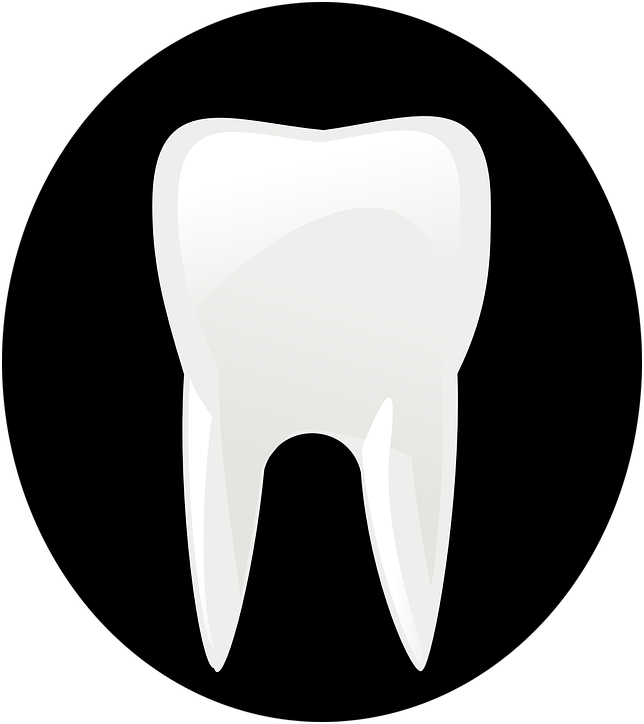
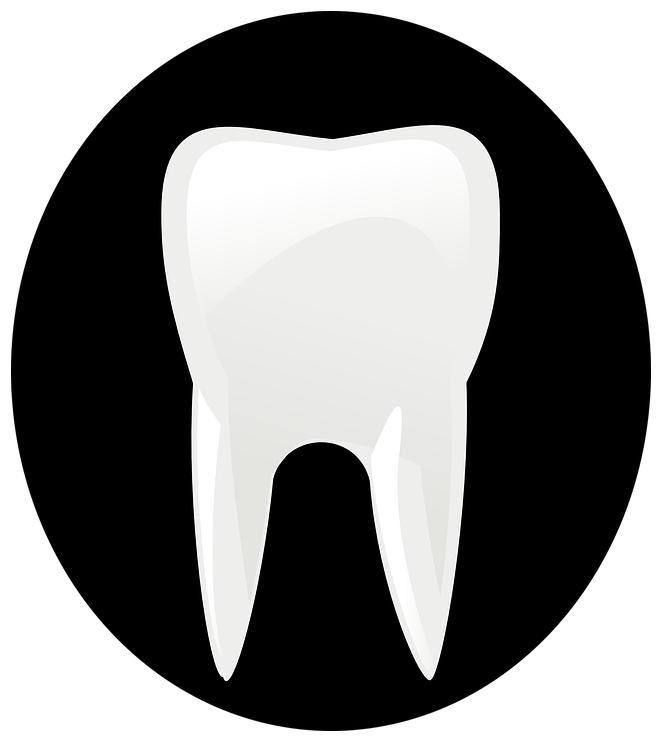
Added empty padding to tooth.png. Refactored saveAsPdf() and associated methods. Added drawLine() and writeDateTime().

diff --git a/src/main/java/seedu/address/storage/InOutAddressBookStorage.java b/src/main/java/seedu/address/storage/InOutAddressBookStorage.java
@@ -4,6 +4,8 @@ import static java.util.Objects.requireNonNull;
 
 import java.io.IOException;
 import java.nio.file.Path;
+import java.time.LocalDateTime;
+import java.time.format.DateTimeFormatter;
 import java.util.ArrayList;
 import java.util.Optional;
 import java.util.logging.Logger;
@@ -30,7 +32,15 @@ import seedu.address.model.ReadOnlyAddressBook;
 public class InOutAddressBookStorage implements AddressBookStorage {
 
     private static final String TITLE = "OurTeeth";
+    private static final PDFont TITLE_FONT = PDType1Font.HELVETICA_BOLD;
+    private static final int TITLE_FONT_SIZE = 20;
     private static final int TOP_MARGIN = 20;
+    private static final PDFont DATE_TIME_FONT = PDType1Font.HELVETICA;
+    private static final int DATE_TIME_FONT_SIZE = 8;
+    private static final PDFont SUBTITLE_FONT = PDType1Font.HELVETICA_BOLD;
+    private static final int SUBTITLE_FONT_SIZE = 16;
+    private static final PDFont FONT = PDType1Font.HELVETICA;
+    private static final int FONT_SIZE = 12;
     private static final int LINE_SPACING = 3;
     private static final String TEETH_IMAGE_PATH = "src\\main\\resources\\images\\tooth.png";
 
@@ -111,17 +121,13 @@ public class InOutAddressBookStorage implements AddressBookStorage {
         FileUtil.createIfMissing(filePath);
 
         try (PDDocument doc = new PDDocument()) {
-            PDFont font = PDType1Font.HELVETICA;
-            int fontSize = 12;
-            PDFont titleFont = PDType1Font.HELVETICA_BOLD;
-            int titleFontSize = 20;
 
             for (PdfAdaptedPerson person : toWrite.getPersons()) {
-                writeModelObject(doc, titleFont, titleFontSize, font, fontSize, person, "Patients");
+                writeModelObject(doc, person, "Patients");
             }
 
             for (PdfAdaptedTask task : toWrite.getTasks()) {
-                writeModelObject(doc, titleFont, titleFontSize, font, fontSize, task, "Tasks");
+                writeModelObject(doc, task, "Tasks");
             }
 
             doc.save(filePath.toFile());
@@ -133,49 +139,33 @@ public class InOutAddressBookStorage implements AddressBookStorage {
     /**
      * Outputs the PDF adapted class object contents to a PDF page.
      * @param doc The PDF document
-     * @param titleFont The font type for the title to be used
-     * @param titleFontSize The font size for the title to be used
-     * @param font The font type to be used
-     * @param fontSize The font size to be used
      * @param pdfAdaptedObj The object to be printed
      * @throws IOException If file cannot be written
      */
-    private void writeModelObject(PDDocument doc, PDFont titleFont, int titleFontSize, PDFont font,
-                                  int fontSize, PdfAdaptedInterface pdfAdaptedObj, String type) throws IOException {
+    private void writeModelObject(PDDocument doc, PdfAdaptedInterface pdfAdaptedObj, String type) throws IOException {
         PDPage page = new PDPage(PDRectangle.A4);
         doc.addPage(page);
         ArrayList<String> stringArr = pdfAdaptedObj.getStrings();
-        float textWidth = font.getStringWidth(TITLE) / 1000 * titleFontSize;
-        float textHeight = font.getFontDescriptor().getFontBoundingBox().getHeight() / 1000 * titleFontSize;
-        float tx;
-        float ty;
+        float ty = TOP_MARGIN;
 
         try (PDPageContentStream contents = new PDPageContentStream(doc, page)) {
-            contents.setFont(titleFont, titleFontSize);
             PDImageXObject pdImage = PDImageXObject.createFromFile(TEETH_IMAGE_PATH, doc);
-            tx = ((page.getMediaBox().getWidth() - textWidth) - (pdImage.getWidth() * textHeight / 1000)) / 2;
-            ty = page.getMediaBox().getHeight() - TOP_MARGIN - textHeight;
-            writeLine(contents, TITLE, tx, ty);
-            contents.drawImage(pdImage, tx + textWidth + (pdImage.getWidth() * textHeight / 1000) - 7, ty - 1,
-                        pdImage.getWidth() * textHeight / 1000,
-                        pdImage.getHeight() * textHeight / 1000);
+            contents.setFont(TITLE_FONT, TITLE_FONT_SIZE);
+            ty = writeTitle(contents, page, pdImage);
 
-            int subtitleFontSize = fontSize + Math.abs((titleFontSize - fontSize) / 2);
-            contents.setFont(titleFont, subtitleFontSize);
-            textWidth = font.getStringWidth(type) / 1000 * subtitleFontSize;
-            textHeight = font.getFontDescriptor().getFontBoundingBox().getHeight() / 1000 * subtitleFontSize;
-            tx = (page.getMediaBox().getWidth() - textWidth) / 2;
-            ty = page.getMediaBox().getHeight() - TOP_MARGIN - textHeight - subtitleFontSize - LINE_SPACING * 4;
-            writeLine(contents, type, tx, ty);
+            contents.setFont(DATE_TIME_FONT, DATE_TIME_FONT_SIZE);
+            writeDateTime(contents, page);
 
-            contents.moveTo(tx, ty - 1);
-            contents.lineTo(tx + textWidth + 4, ty - 1);
-            contents.stroke();
+            contents.setFont(TITLE_FONT, SUBTITLE_FONT_SIZE);
+            ty = writeSubtitle(contents, page, type, ty);
 
-            contents.setFont(font, fontSize);
-            for (int i = 0; i < stringArr.size(); i++) {
-                writeLine(contents, stringArr.get(i), 50, 700 - (i * (fontSize + LINE_SPACING)));
+            ty = drawLine(contents, 10, page.getMediaBox().getWidth() - 10, ty);
+
+            contents.setFont(FONT, FONT_SIZE);
+            for (String toWrite : stringArr) {
+                ty = writeString(contents, toWrite, 50, ty);
             }
+            drawLine(contents, 10, page.getMediaBox().getWidth() - 10, ty);
         } catch (IOException e) {
             throw new IOException(e.getMessage());
         }
@@ -185,18 +175,170 @@ public class InOutAddressBookStorage implements AddressBookStorage {
      * Writes a single line of content.
      * @param contents The content stream for writing
      * @param toWrite The String to write
-     * @param tx The x coordinates to write at
-     * @param ty The y coordinates to write at
+     * @param tx The x coordinate to write at
+     * @param ty The y coordinate to write at
      * @throws IOException If file cannot be written
      */
-    private void writeLine(PDPageContentStream contents, String toWrite, float tx, float ty) throws IOException {
+    private float writeString(PDPageContentStream contents, String toWrite, float tx, float ty) throws IOException {
         try {
             contents.beginText();
             contents.newLineAtOffset(tx, ty);
             contents.showText(toWrite);
             contents.endText();
+            return ty - FONT_SIZE - LINE_SPACING;
         } catch (IOException e) {
             throw new IOException("File cannot be written.");
+        }
+    }
+
+    /**
+     * Writes a single line of content followed by an image.
+     * @param contents The content stream for writing
+     * @param page The page to write to
+     * @param pdImage The Image to draw
+     * @throws IOException If file cannot be written
+     */
+    private float writeTitle(PDPageContentStream contents, PDPage page, PDImageXObject pdImage) throws IOException {
+        try {
+            float textWidth = TITLE_FONT.getStringWidth(TITLE) / 1000 * TITLE_FONT_SIZE;
+            float textHeight = TITLE_FONT.getFontDescriptor().getFontBoundingBox().getHeight() / 1000 * TITLE_FONT_SIZE;
+            float tx = (page.getMediaBox().getWidth() - textWidth - (pdImage.getWidth() * textHeight / 1000)) / 2;
+            float ty = page.getMediaBox().getHeight() - TOP_MARGIN - textHeight;
+            contents.setFont(TITLE_FONT, TITLE_FONT_SIZE);
+            writeString(contents, TITLE, tx, ty);
+            contents.drawImage(pdImage, tx + textWidth, ty - 1,
+                pdImage.getWidth() * textHeight / 1000, pdImage.getHeight() * textHeight / 1000);
+            return ty - TITLE_FONT_SIZE - LINE_SPACING;
+        } catch (IOException e) {
+            throw new IOException(e.getMessage());
+        }
+    }
+
+    private void writeDateTime(PDPageContentStream contents, PDPage page) throws IOException {
+        try {
+            DateTimeFormatter dtf = DateTimeFormatter.ofPattern("dd/mm/yyyy hh:mm:ss");
+            LocalDateTime now = LocalDateTime.now();
+            String toWrite = "Saved/Exported on:\n" + dtf.format(now);
+            float textWidth = DATE_TIME_FONT.getStringWidth(toWrite) / 1000 * DATE_TIME_FONT_SIZE;
+            float textHeight = DATE_TIME_FONT.getFontDescriptor().getFontBoundingBox().getHeight()
+                                / 1000 * DATE_TIME_FONT_SIZE;
+            float tx = page.getMediaBox().getWidth() - textWidth - 20;
+            float ty = page.getMediaBox().getHeight() - TOP_MARGIN - textHeight;
+            writeString(contents, toWrite, tx, ty);
+        } catch (IOException e) {
+            throw new IOException(e.getMessage());
+        }
+    }
+
+    /**
+     * Writes a single line of content that is underlined.
+     * @param contents The content stream for writing
+     * @param page The page to write to
+     * @param toWrite The String to write
+     * @param ty The y coordinate to write at
+     * @return The next ty
+     * @throws IOException If file cannot be written
+     */
+    private float writeSubtitle(PDPageContentStream contents, PDPage page, String toWrite,
+                                float ty) throws IOException {
+        try {
+            float textWidth = SUBTITLE_FONT.getStringWidth(toWrite) / 1000 * SUBTITLE_FONT_SIZE;
+            float tx = (page.getMediaBox().getWidth() - textWidth) / 2;
+            writeString(contents, toWrite, tx, ty - 1);
+            contents.moveTo(tx, ty - LINE_SPACING);
+            contents.lineTo(tx + textWidth, ty - LINE_SPACING);
+            contents.stroke();
+            return ty - SUBTITLE_FONT_SIZE - LINE_SPACING;
+        } catch (IOException e) {
+            throw new IOException("File cannot be written.");
+        }
+    }
+
+    /**
+     * Draws a single line.
+     * @param contents The content stream for writing
+     * @param start The start x coordinate of the line
+     * @param end The end x coordinate of the line
+     * @param ty The y coordinate to write at
+     * @return The next ty
+     * @throws IOException If file cannot be written
+     */
+    private float drawLine(PDPageContentStream contents, float start, float end, float ty) throws IOException {
+        try {
+            contents.moveTo(start, ty - LINE_SPACING);
+            contents.lineTo(end, ty - LINE_SPACING);
+            contents.stroke();
+            return ty - (10 * LINE_SPACING);
+        } catch (IOException e) {
+            throw new IOException("File cannot be written.");
+        }
+    }
+
+
+    /**
+     * Writes a single line of content followed by an image.
+     * @param contents The content stream for writing
+     * @param page The page to write to
+     * @param toWrite The String to write
+     * @param pdImage The Image to draw
+     * @param ty The y coordinate to write at
+     * @return The next ty
+     * @throws IOException If file cannot be written
+     */
+    private float writeStringWithIcon(PDPageContentStream contents, PDPage page, String toWrite, PDImageXObject pdImage,
+                                    float ty) throws IOException {
+        try {
+            float textWidth = FONT.getStringWidth(toWrite) / 1000 * FONT_SIZE;
+            float textHeight = FONT.getFontDescriptor().getFontBoundingBox().getHeight() / 1000 * FONT_SIZE;
+            float tx = (page.getMediaBox().getWidth() - textWidth - (pdImage.getWidth() * textHeight / 1000)) / 2;
+            contents.setFont(FONT, FONT_SIZE);
+            writeString(contents, toWrite, tx, ty);
+            contents.drawImage(pdImage, tx + textWidth, ty - LINE_SPACING,
+                pdImage.getWidth() * textHeight / 1000, pdImage.getHeight() * textHeight / 1000);
+            return ty - FONT_SIZE - LINE_SPACING;
+        } catch (IOException e) {
+            throw new IOException(e.getMessage());
+        }
+    }
+
+    /**
+     * Writes a single line of content that is underlined.
+     * @param contents The content stream for writing
+     * @param toWrite The String to write
+     * @param tx The x coordinate to write at
+     * @param ty The y coordinate to write at
+     * @return The next ty
+     * @throws IOException If file cannot be written
+     */
+    private float writeStringWithUnderline(PDPageContentStream contents, String toWrite, float tx,
+                                         float ty) throws IOException {
+        try {
+            float textWidth = FONT.getStringWidth(toWrite) / 1000 * FONT_SIZE;
+            contents.setFont(FONT, FONT_SIZE);
+            writeString(contents, toWrite, tx, ty);
+            contents.moveTo(tx, ty - 1);
+            contents.lineTo(tx + textWidth, ty - 1);
+            contents.stroke();
+            return ty - TITLE_FONT_SIZE - LINE_SPACING;
+        } catch (IOException e) {
+            throw new IOException("File cannot be written.");
+        }
+    }
+
+    /**
+     * Draws an image.
+     * @param contents The content stream for writing
+     * @param image The image to draw
+     * @param tx The x coordinates to draw at
+     * @param ty The y coordinates to draw at
+     * @throws IOException
+     */
+    private void drawImage(PDPageContentStream contents, PDImageXObject image, float tx, float ty) throws IOException {
+        try {
+            contents.drawImage(image, tx + ((float) image.getWidth() / 1000) - 7,
+                            ty - 1, (float) image.getWidth() / 1000, (float) image.getHeight() / 1000);
+        } catch (IOException e) {
+            throw new IOException(e.getMessage());
         }
     }
 }
